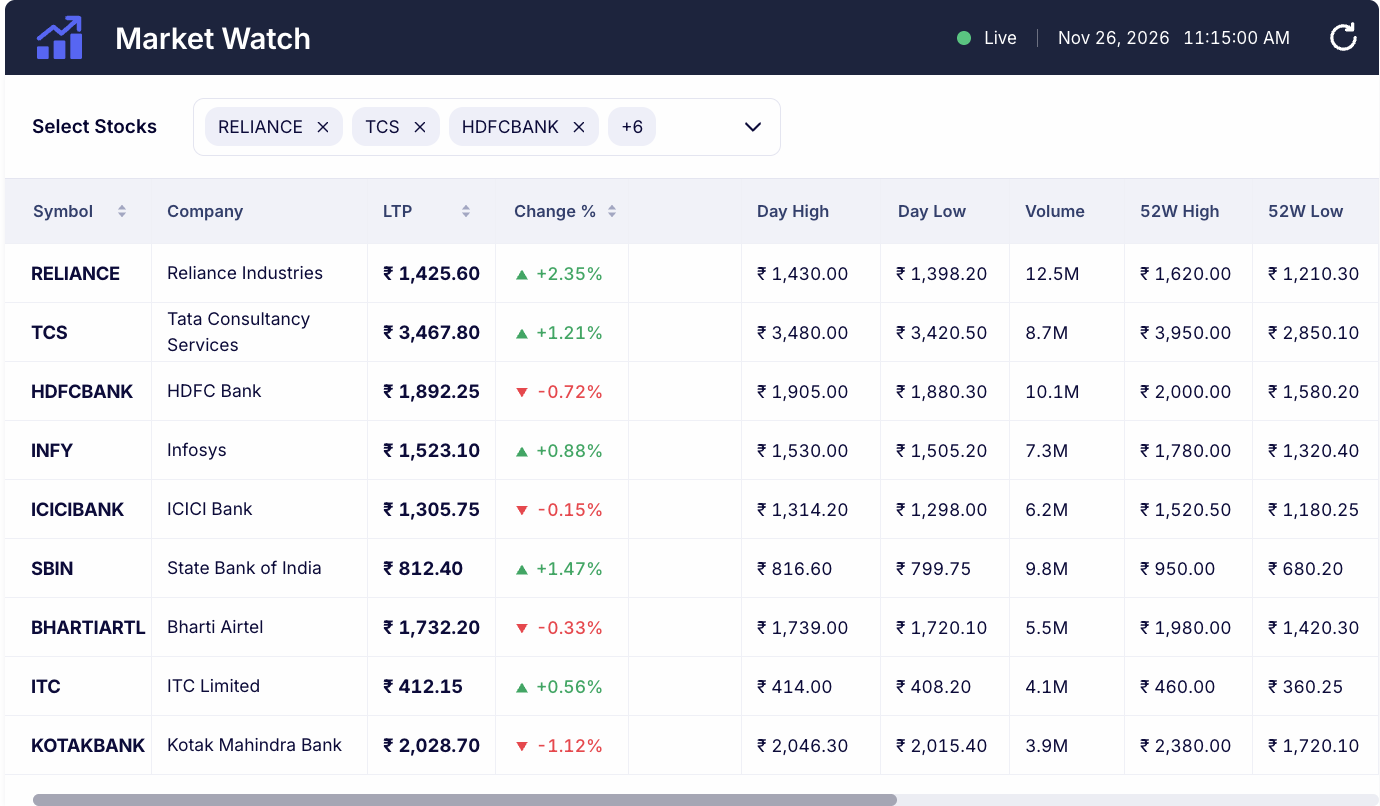
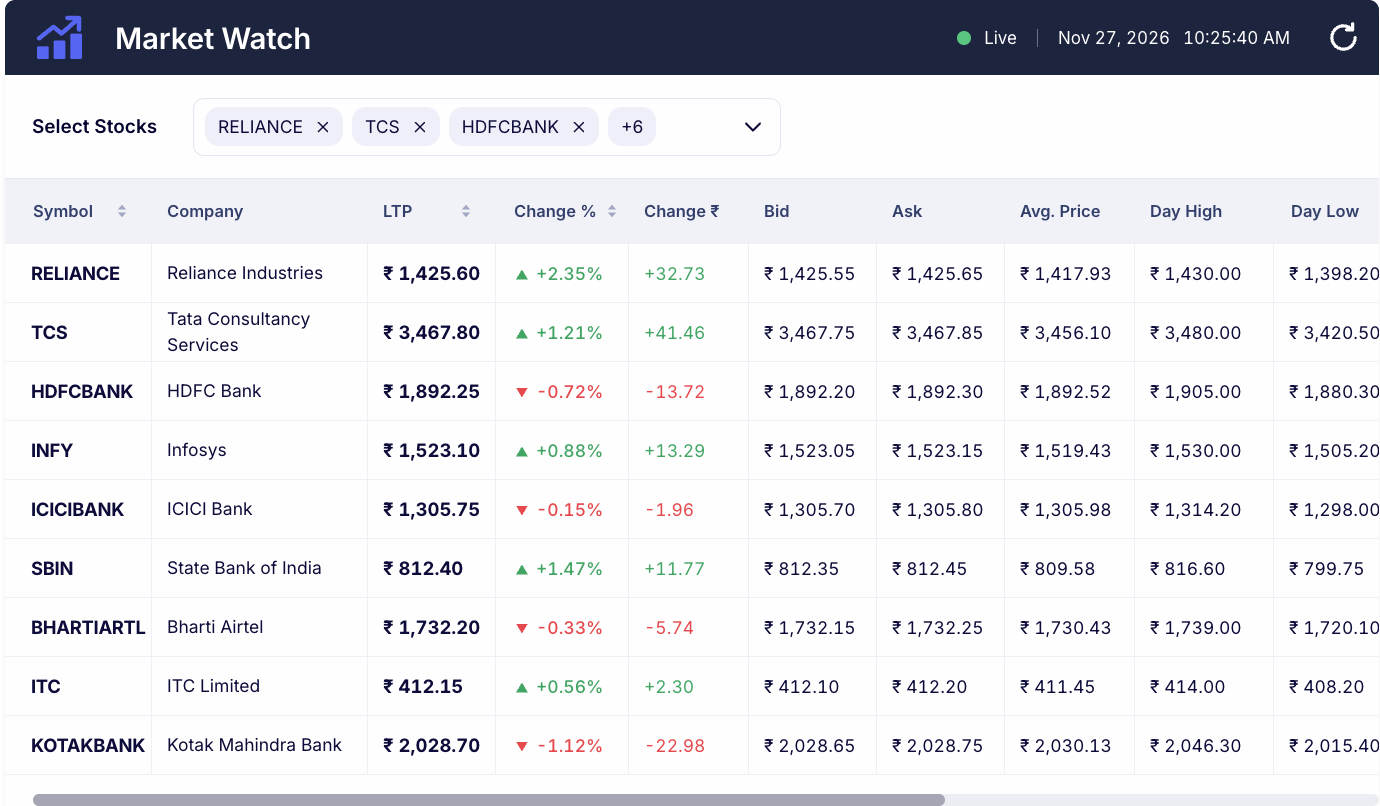
Move Change ₹, Bid, Ask and Avg. Price next to Change %

diff --git a/apps/web/src/components/MarketTable/columns.ts b/apps/web/src/components/MarketTable/columns.ts
@@ -6,7 +6,7 @@ import { SortKey } from '../../utils/sort';
 type Widths = Record<Layout, number>;
 
 export type Column = { id: string; label: string; width: Widths; sortKey?: SortKey } & (
-  | { kind: 'symbol' | 'company' | 'percent' | 'spacer' }
+  | { kind: 'symbol' | 'company' | 'percent' }
   | { kind: 'value'; field: QuoteField; format: (value: number) => string; strong?: boolean; signed?: boolean }
 );
 
@@ -17,12 +17,15 @@ export const STICKY_COUNT = 3;
 const w = (desktop: number, tablet: number, phone: number, narrow = phone): Widths => ({ desktop, tablet, phone, narrow });
 const price = (id: string, label: string, field: QuoteField, width: Widths): Column => ({ id, label, width, kind: 'value', field, format: formatPrice });
 
-const ALL: Column[] = [
+export const COLUMNS: readonly Column[] = [
   { id: 'symbol', label: 'Symbol', width: w(147, 124, 90, 80), kind: 'symbol', sortKey: 'symbol' },
   { id: 'company', label: 'Company', width: w(216, 150, 88, 70), kind: 'company' },
   { id: 'ltp', label: 'LTP', width: w(128, 116, 94, 84), kind: 'value', field: 'ltp', format: formatPrice, strong: true, sortKey: 'ltp' },
   { id: 'pct', label: 'Change %', width: w(133, 118, 86), kind: 'percent', sortKey: 'pct' },
-  { id: 'spacer', label: '', width: w(113, 40, 0), kind: 'spacer' },
+  { id: 'chg', label: 'Change ₹', width: w(120, 110, 90), kind: 'value', field: 'chg', format: formatSigned, signed: true },
+  price('bid', 'Bid', 'bid', w(128, 122, 100)),
+  price('ask', 'Ask', 'ask', w(128, 122, 100)),
+  price('avg', 'Avg. Price', 'avg', w(130, 122, 100)),
   price('high', 'Day High', 'high', w(139, 122, 100)),
   price('low', 'Day Low', 'low', w(129, 122, 100)),
   { id: 'vol', label: 'Volume', width: w(115, 100, 80), kind: 'value', field: 'vol', format: formatVolume },
@@ -30,16 +33,4 @@ const ALL: Column[] = [
   price('l52', '52W Low', 'l52', w(126, 122, 100)),
   price('open', 'Open', 'open', w(128, 122, 100)),
   price('prev', 'Prev. Close', 'prev', w(132, 122, 100)),
-  { id: 'chg', label: 'Change ₹', width: w(120, 110, 90), kind: 'value', field: 'chg', format: formatSigned, signed: true },
-  price('bid', 'Bid', 'bid', w(128, 122, 100)),
-  price('ask', 'Ask', 'ask', w(128, 122, 100)),
-  price('avg', 'Avg. Price', 'avg', w(130, 122, 100)),
 ];
-
-// The empty spacer column would waste a third of a phone's scrolling area.
-const COMPACT = ALL.filter((column) => column.kind !== 'spacer');
-
-const BY_LAYOUT: Record<Layout, readonly Column[]> = { desktop: ALL, tablet: ALL, phone: COMPACT, narrow: COMPACT };
-
-/** Returns the same array for a layout every time, so memoised rows stay memoised. */
-export const columnsFor = (layout: Layout): readonly Column[] => BY_LAYOUT[layout];

diff --git a/apps/web/src/components/MarketTable/MarketTable.tsx b/apps/web/src/components/MarketTable/MarketTable.tsx
@@ -4,7 +4,7 @@ import { useRenderCount } from '../../debug/render-stats';
 import { Layout } from '../../hooks/useLayout';
 import { useSortedSymbols } from '../../hooks/useSortedSymbols';
 import { nextSort, Sort, SortKey } from '../../utils/sort';
-import { columnsFor } from './columns';
+import { COLUMNS } from './columns';
 import styles from './MarketTable.module.css';
 import { StockRow } from './StockRow';
 import { TableHeader } from './TableHeader';
@@ -25,32 +25,31 @@ export const MarketTable = memo(function MarketTable({ symbols, names, layout, s
   const { store } = useMarket();
   const [sort, setSort] = useState<Sort | null>(null);
   const order = useSortedSymbols(symbols, sort, store);
-  const columns = columnsFor(layout);
   const onSort = useCallback((key: SortKey) => setSort((current) => nextSort(current, key)), []);
   useRenderCount('table');
 
   const style = useMemo(() => {
-    const total = columns.reduce((sum, column) => sum + column.width[layout], 0);
+    const total = COLUMNS.reduce((sum, column) => sum + column.width[layout], 0);
     return {
       minWidth: total,
-      '--col-1': `${columns[0]!.width[layout]}px`,
-      '--col-2': `${columns[1]!.width[layout]}px`,
+      '--col-1': `${COLUMNS[0]!.width[layout]}px`,
+      '--col-2': `${COLUMNS[1]!.width[layout]}px`,
     } as CSSProperties;
-  }, [columns, layout]);
+  }, [layout]);
 
   return (
     <div className={styles.scroller} onScroll={markScrolled} data-stale={stale} tabIndex={0} role="region" aria-label="Market data">
       <table className={styles.table} style={style}>
         <colgroup>
-          {columns.map((column) => (
+          {COLUMNS.map((column) => (
             <col key={column.id} style={{ width: column.width[layout] }} />
           ))}
           <col />
         </colgroup>
-        <TableHeader columns={columns} sort={sort} onSort={onSort} />
+        <TableHeader columns={COLUMNS} sort={sort} onSort={onSort} />
         <tbody>
           {order.map((symbol) => (
-            <StockRow key={symbol} symbol={symbol} name={names.get(symbol) ?? ''} columns={columns} />
+            <StockRow key={symbol} symbol={symbol} name={names.get(symbol) ?? ''} columns={COLUMNS} />
           ))}
         </tbody>
       </table>

diff --git a/apps/web/src/components/MarketTable/rendering.test.tsx b/apps/web/src/components/MarketTable/rendering.test.tsx
@@ -4,11 +4,11 @@ import { MarketContext } from '../../app/market-context';
 import { renderStats } from '../../debug/render-stats';
 import { createHarness } from '../../test/fake-socket';
 import { quote } from '../../test/fixtures';
-import { columnsFor } from './columns';
+import { COLUMNS } from './columns';
 import { MarketTable } from './MarketTable';
 
 const names = new Map([['TCS', 'Tata'], ['INFY', 'Infosys'], ['SBIN', 'SBI']]);
-const LIVE_CELLS_PER_ROW = columnsFor('desktop').filter((c) => c.kind === 'value' || c.kind === 'percent').length;
+const LIVE_CELLS_PER_ROW = COLUMNS.filter((c) => c.kind === 'value' || c.kind === 'percent').length;
 
 /** These tests are the proof of the assignment's key performance requirement. */
 describe('MarketTable rendering', () => {

diff --git a/apps/web/src/components/MarketTable/TableHeader.tsx b/apps/web/src/components/MarketTable/TableHeader.tsx
@@ -22,7 +22,6 @@ export const TableHeader = memo(function TableHeader({ columns, sort, onSort }: 
               data-column={column.id}
               className={index < STICKY_COUNT ? styles[`sticky${index}`] : undefined}
               aria-sort={direction ? (direction === 'asc' ? 'ascending' : 'descending') : undefined}
-              aria-hidden={column.kind === 'spacer' || undefined}
             >
               {column.sortKey ? (
                 <button type="button" className={styles.sort} onClick={() => onSort(column.sortKey!)}>

diff --git a/apps/web/src/components/MarketTable/StockRow.tsx b/apps/web/src/components/MarketTable/StockRow.tsx
@@ -32,8 +32,6 @@ export const StockRow = memo(function StockRow({ symbol, name, columns }: Props)
             );
           case 'percent':
             return <PercentCell key={column.id} symbol={symbol} />;
-          case 'spacer':
-            return <td key={column.id} aria-hidden="true" />;
           case 'value':
             return (
               <ValueCell

diff --git a/README.md b/README.md
@@ -179,8 +179,8 @@ Throttled desktop hardware is not a real phone; test on a device before relying 
 |---|---|
 | Rows | The table shows exactly the selected stocks. The mock shows 5 selected but 9 rows, so the "+N" chip differs |
 | Row height | Uniform 59 px; the mock's rows vary between about 53 and 71 px |
-| Extra columns | Open, Prev. Close, Change ₹, Bid, Ask and Avg. Price were added after 52W Low, giving the horizontal scroll the mock's scrollbar implies |
-| Blank column | The empty column after Change % is reproduced on tablet and desktop, and omitted on phones |
+| Extra columns | Change ₹, Bid, Ask and Avg. Price were added after Change %, and Open and Prev. Close after 52W Low, giving the horizontal scroll the mock's scrollbar implies |
+| Blank column | The mock's empty column after Change % is left out; those four columns take its place |
 | Phones | No mobile design was supplied: narrower sticky columns, a two-line header clock and a bottom-sheet stock list |
 | Very narrow screens | Below 375 px the header shows the time without the date |
 | Sorting | Symbol, LTP and Change %: ascending, descending, then selection order. Live sorts re-order at most once a second |
